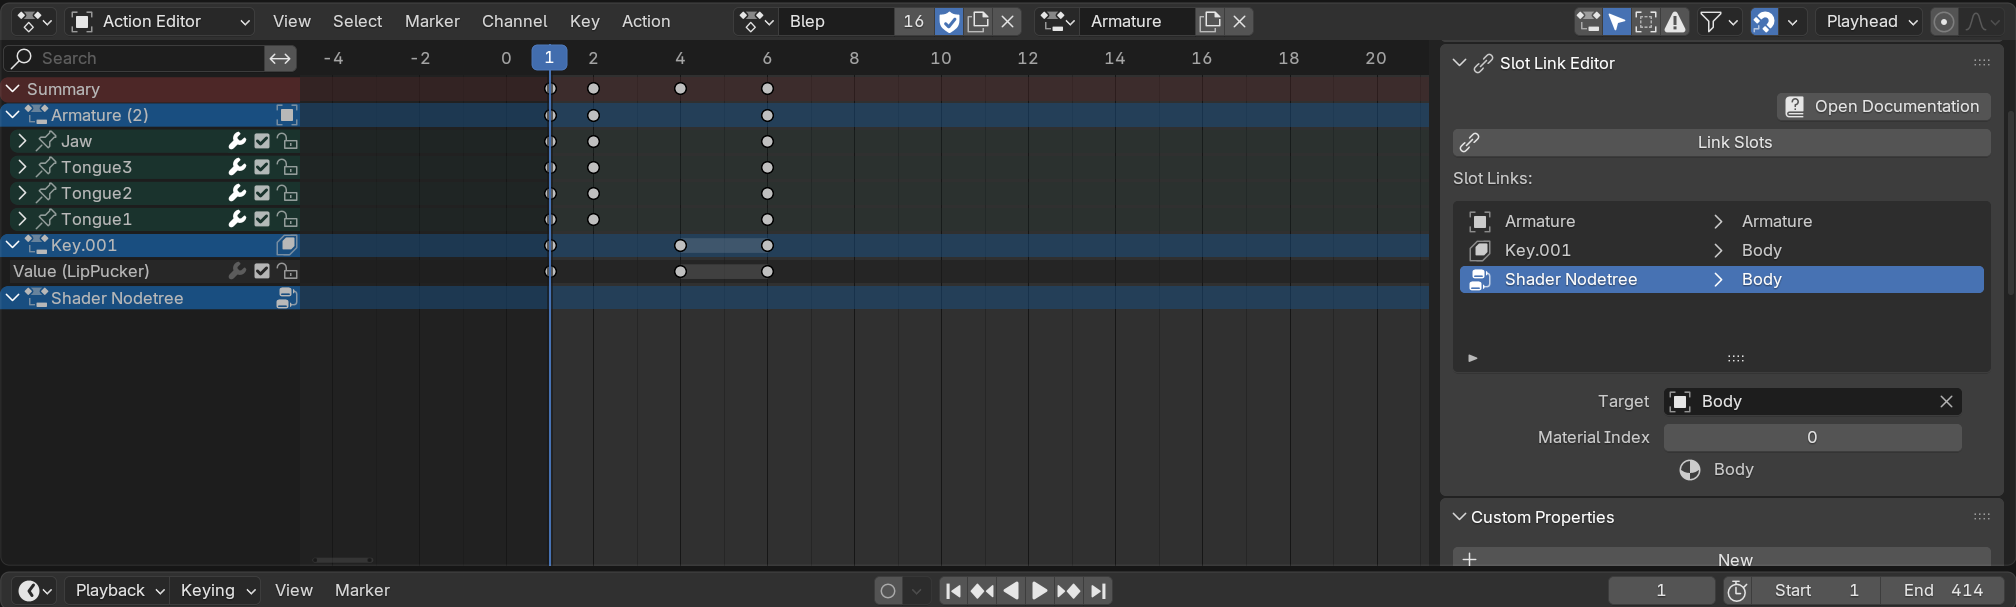
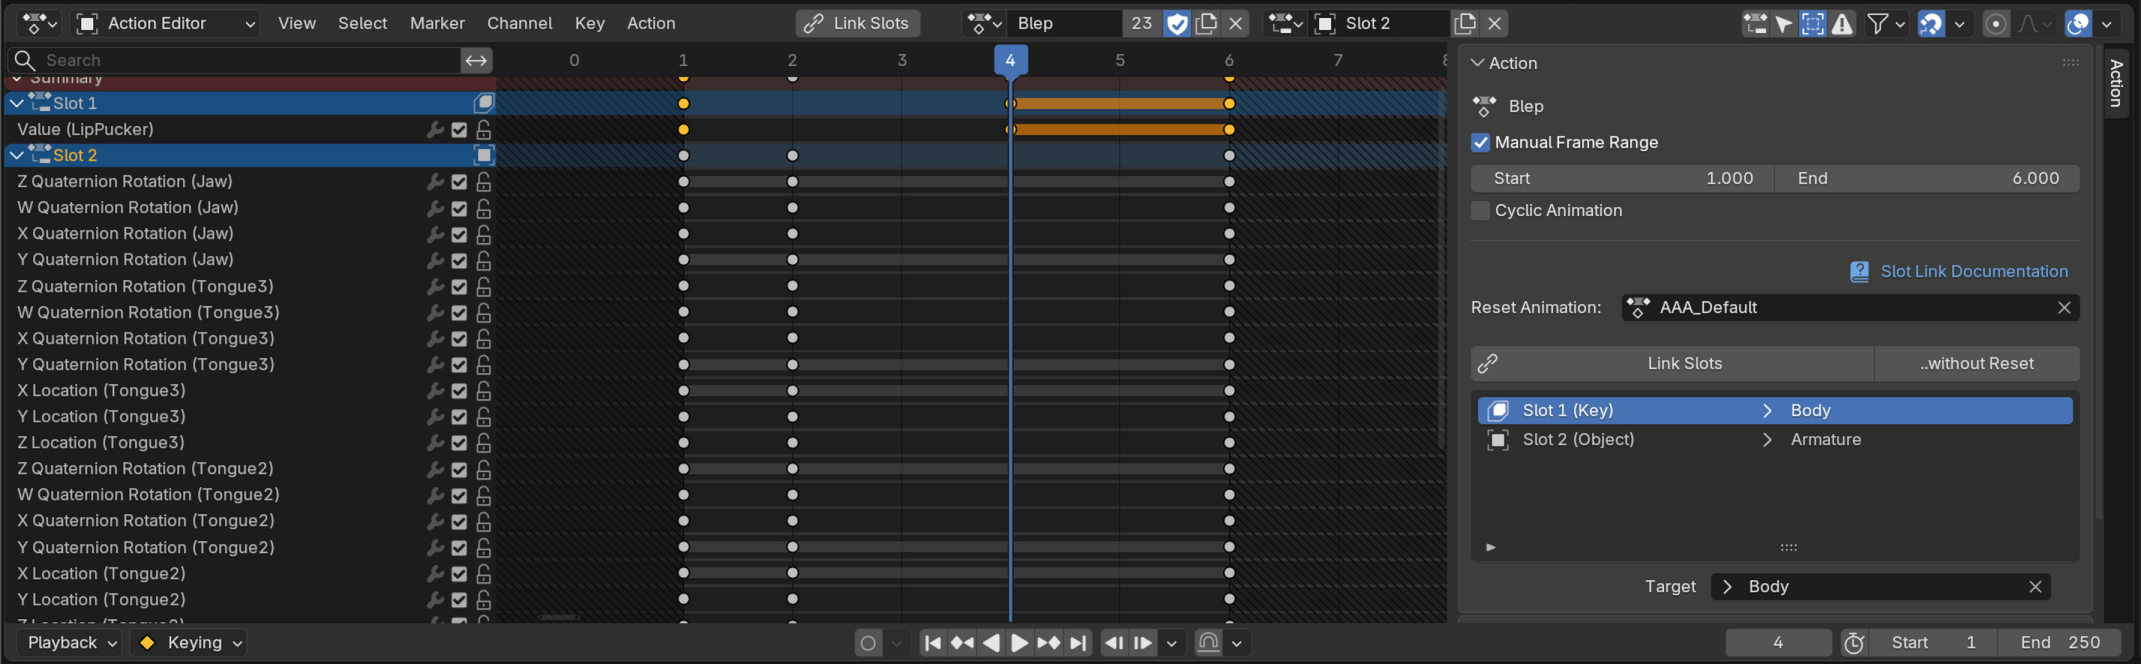
update slot link doc, try codeberg-tiny runnir with python cache-dependency-path

diff --git a/src/guide/blender/slot_link.md b/src/guide/blender/slot_link.md
@@ -2,7 +2,7 @@
 
 🌰 [Slot Link Installation](https://extensions.blender.org/add-ons/slot-link/) 🌰 [Report Issues](https://codeberg.org/emperorofmars/blender_slot_link/issues) 🌰 [Source Code](https://codeberg.org/emperorofmars/blender_slot_link) 🌰
 
-Slot Link helps you manage Blender projects with multiple separate animations.
+**Slot Link helps you manage Blender projects with multiple separate animations.**
 
 *Requires Blender 4.5 or higher. Not compatible with legacy Actions.*
 
@@ -11,45 +11,61 @@ In games-development, you often need to create multiple separate animations, tha
 *(I.e. a run-cycle and a walk-cycle for the same character.)*
 
 This is unfortunately impossible to create in Blender without workarounds.\
-*(As of Blender version 5.0)*
+*(As of Blender version 5.2)*
 
+**Blender supports only one animation per .blend file.**\
+Actions are modular pieces from which the one animation is composed of.
 
 ## The Solution
-In the Action-Editor, specify with the [Slot Link extension](https://extensions.blender.org/add-ons/slot-link/) which Slot targets which Object and press `Link Slots`.
+**Slot Link redefines Actions to be full standalone animations.**\
+To achieve that, you have to set the animation target for each Slot of an Action.
 
-Whenever you change the active Action in the Action-Editor, simply press `Link Slots` to ensure the current Action is linked everywhere in the scene correctly.
+To do so, open the Dopesheets Action Editor, and expand the Action panel on the right.
+For each Slot on the Action, select a Target.
+
+Press the `Link Slots` button to play and edit the animation.
+
+Easily switch between animations with only one additional button press.\
+Whenever you change the active Action, simply press `Link Slots` again to ensure only the newly selected Action is linked throughout the Scene.
 
 Switching between Actions becomes a breeze, and it is no longer possible to accidentally change the active Action by just selecting another Object, Mesh etc...
 
 ![](img/slot_link_editor.png)
 
 :::{hint}
-Slot Link purposely allows only Objects as targets.
+Slot Link purposely allows only selecting Objects as targets.
 
 If you animated a Mesh's Shape Keys, simply select the Object on which that Mesh is instantiated.
 
-This has the added advantage of being able to animate instances of the same Mesh separately.
+This has the added advantage of being able to animate multiple instances of the same Mesh separately.
 :::
 
+### Reset Animation
+Slot Link additionally allows you to specify whether an animation is intended to reset the Scene into a consistent state.\
+The reset animation should consist of just one frame that animates all desired properties to their default value.
+
+Further animations can select this animation as their reset.\
+If so, when the `Link Slots` button is pressed, the reset animation will be applied right before the selected animation.
+
+
 ### Import Export
-With this information present, it is possible to deterministically import & export animations in Blender.
+With Slot Link, it is possible to deterministically import & export animations in Blender.
 
-At the time of writing, the only importer/exporter that supports Slot-Link is [STF](https://docs.stfform.at). STF is not yet a production ready format.
+At the time of writing, the only importer/exporter that supports Slot-Link is [STF](https://docs.stfform.at). STF is not a production ready format yet.
 
-Until STF matures, or an importer/exporter for another format implements support, Slot-Link still aids you in creating and managing of animations.
+Until STF matures, or an importer/exporter for another format implements support, Slot-Link still aids you in creating and managing animations.
 
-For export, you will for now have to rely on automated guesswork.\
-Alternatively, you can export animations one at a time. The `Link Slots` feature still significantly speeds that process up.
+For now, you can export animations one at a time. The `Link Slots` feature speeds that process up significantly.
 
 ---
 
 ## Technical Details
-In Blender, an animation is represented by Actions.\
+In Blender, the animation is composed of all the Actions and Slots linked throughout the Scene.\
 Each animatable data-block (Object, Mesh, Armature, etc...) links to ***one*** Action and one of its Slots.
 
 ![](img/animation_data.png)
 
-When you hit `spacebar`, which ever Actions and Slots are currently linked on all the data-blocks, will play.
+When you hit the `spacebar`, which ever Actions and Slots are currently linked on all the data-blocks, will play.
 
 Unfortunately, a data-block can link to only ***one*** Action.\
 In order to create a second Action, targeting the same data-block, you have to remove the previous Action first.\
@@ -70,11 +86,9 @@ In order to export Actions, the targets of Actions and Slots have to be guessed.
 Depending on the circumstances, that may work well or fail completely.
 
 ### Error Prone UX
-The Action displayed in the Action-Editor is linked to the animation-data of the selected data-block.\
-This means, if you switch to another Action in the editor, the data-block's linked Action will also change, and vice versa.
+The Action displayed in the Action-Editor is linked to the animation-data of the currently selected data-block.\
+This means, if you switch to another Action in the editor, the data-block's linked Action is what actually changes, and vice versa.
 
-Different data-blocks can link to different Actions, ensuring proper chaos. When you want to animate an Object/Mesh/etc.. that isn't selected currently, whichever Action is linked on that data-block will become active in the Action-Editor. Your keys will be added to that one, instead the one you wanted.
+If you select another Object/Mesh/etc, whichever Action was linked there, will become the active Action in the Action-Editor. Keyframes will be inserted there instead.
+It is incredibly easy to accidentally and unknowingly animate the wrong Action.
 
-It's incredibly easy to accidentally and unknowingly mess up the scene and animations.
-
-When intentionally switching the edited action, the artist has to check every single data-block. Some Actions could have been previously linked somewhere accidentally.
